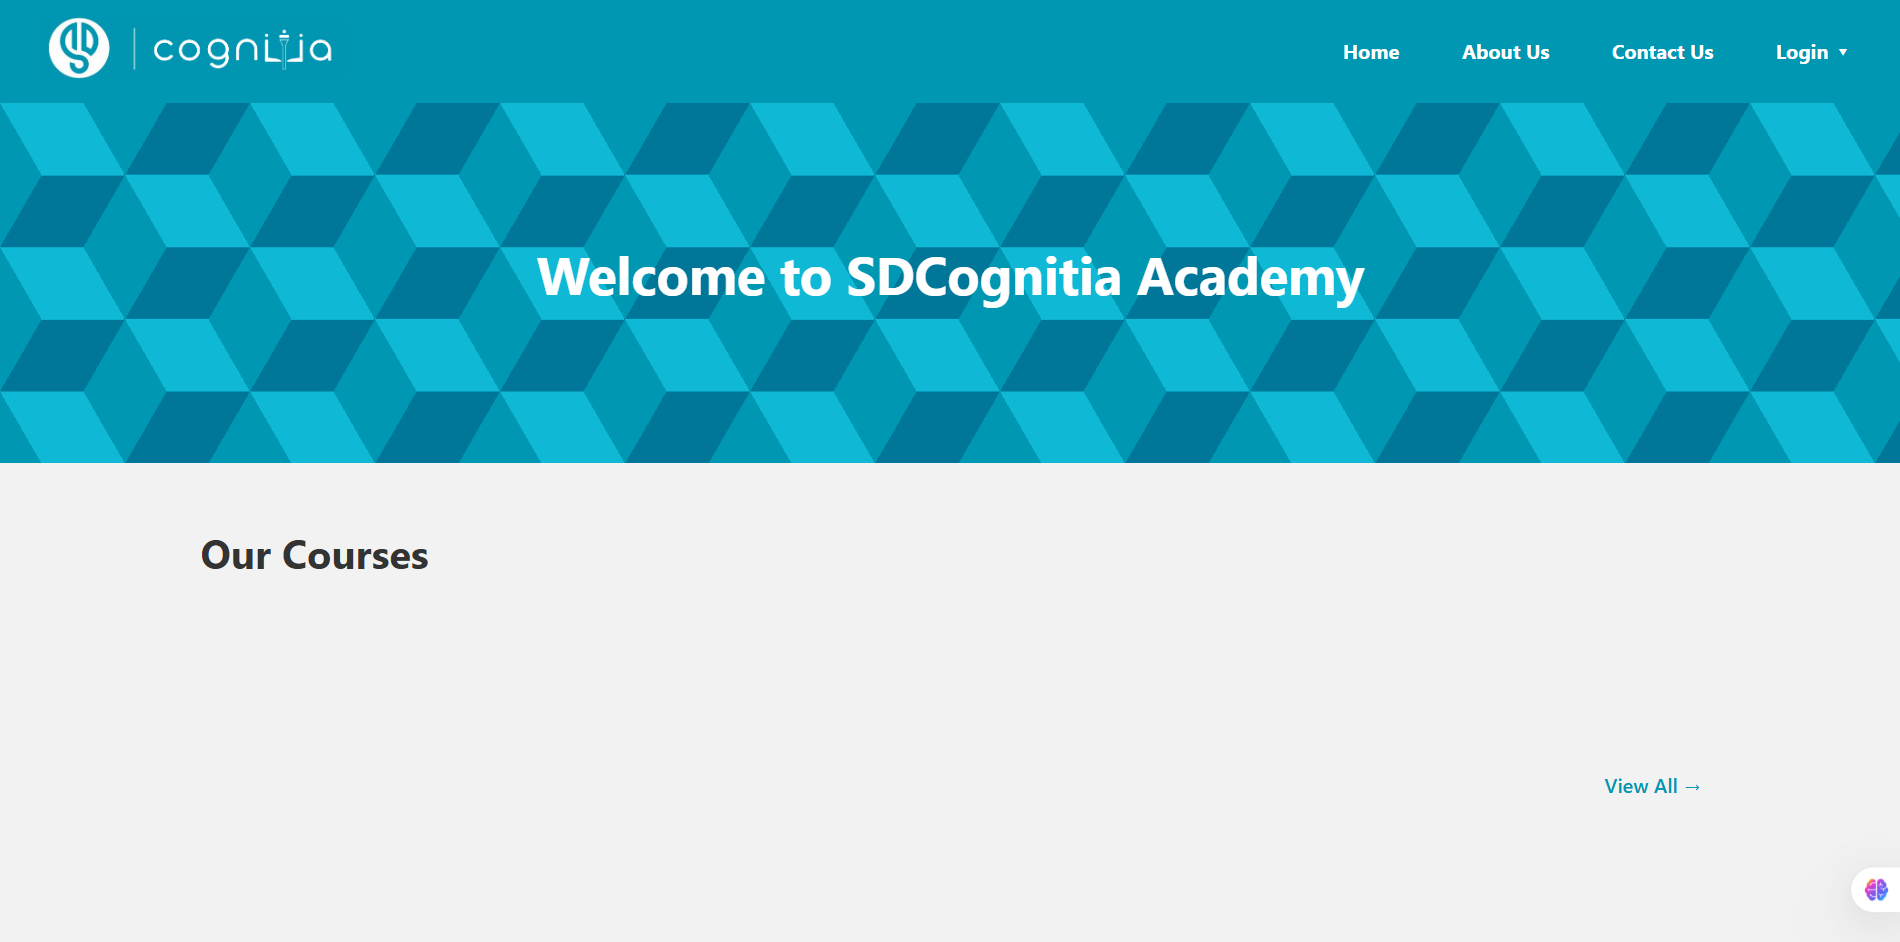
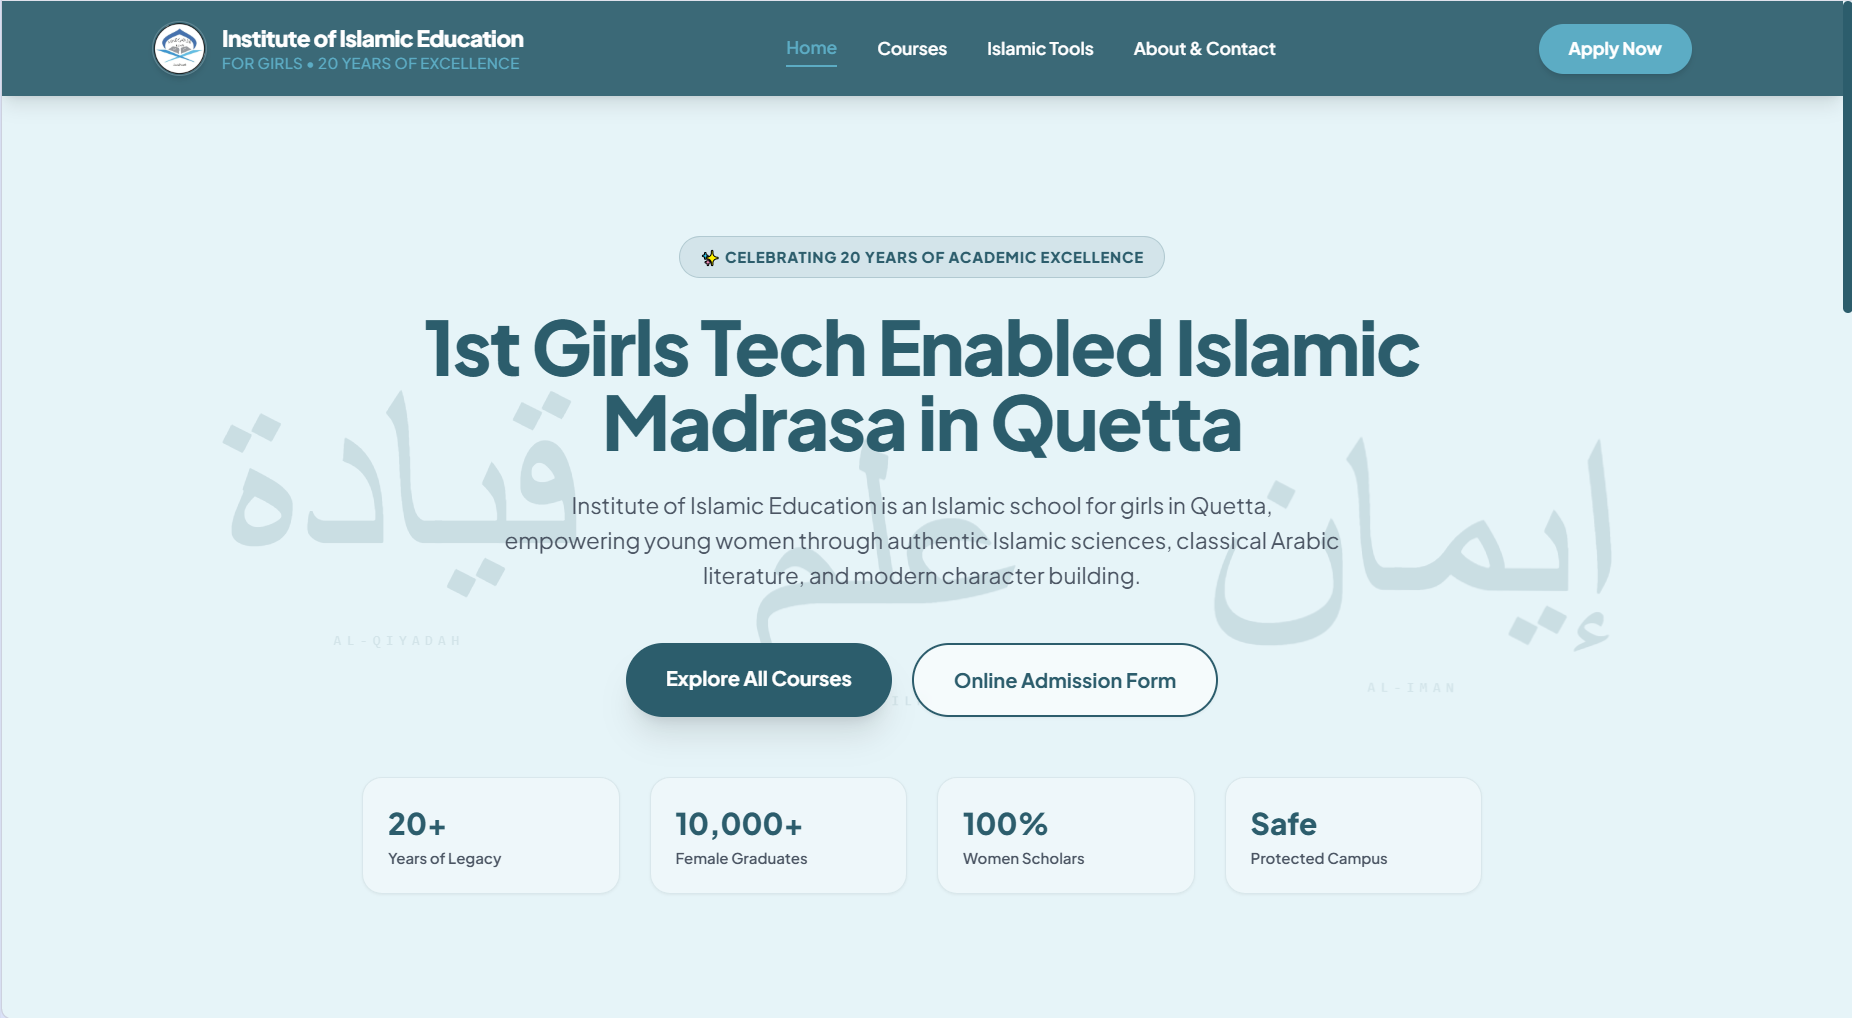
Update index.html links and images

diff --git a/index.html b/index.html
@@ -117,17 +117,21 @@
 						<div class="relative">
 							<div class="thumb">
 								<div class="overlay overlay-bg"></div>
-								<img class="image img-fluid" src="images/p3.png" alt="ML Iris Flower Predictor">
+								<img class="image img-fluid" src="images/p3.png" alt="Porfolio Dr Sarwar">
 							</div>
 							<a href="images/p3.png" class="img-pop-up">   
 								<div class="middle">
-									<div class="text align-self-center d-flex"><img src="images/preview.png" alt="preview"></div>
+									<div class="text align-self-center d-flex">
+										<a href="https://www.drsarwarkakar.com/" target="_blank" rel="noopener noreferrer">
+											<img src="images/preview.png" alt="preview">
+										</a>
+									</div>
 								</div>
 							</a>  
 						</div>
 						<div class="p-inner">
-							<h4>ML Iris Flower Predictor</h4>
-							<div class="cat">Mockup</div>
+							<h4>Website: Dr Sarwar Kakar</h4>
+							<div class="cat">Portfolio</div>
 						</div>
 					</div>
 					<div class="single-portfolio col-sm-4 all packaging">
@@ -138,13 +142,17 @@
 							</div>
 							<a href="images/p4.jpg" class="img-pop-up">   
 								<div class="middle">
-									<div class="text align-self-center d-flex"><img src="images/preview.png" alt="preview"></div>
+									<div class="text align-self-center d-flex">
+										<a href="https://www.instofislamicedu.online/" target="_blank" rel="noopener noreferrer">
+											<img src="images/preview.png" alt="preview">
+										</a>
+									</div>
 								</div>
 							</a>                                
 						</div> 
 						<div class="p-inner">
-							<h4>SDCognitia</h4>
-							<div class="cat">LMS</div>
+							<h4>Website: Institute of Islamic Edu</h4>
+							<div class="cat">Instituion Website</div>
 						</div>
 					</div>
 					<div class="single-portfolio col-sm-4 all typography">
